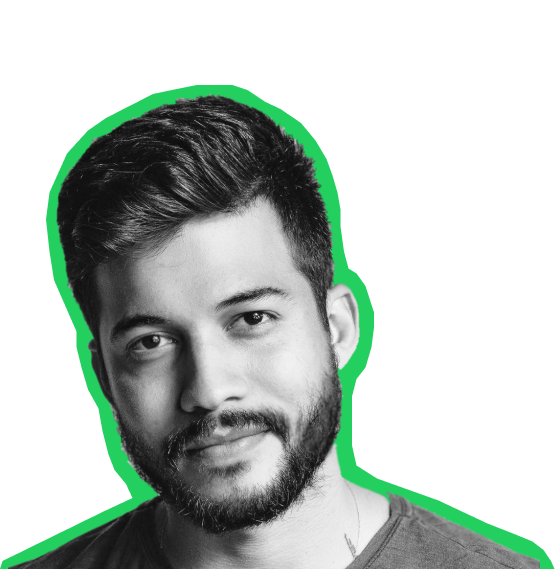
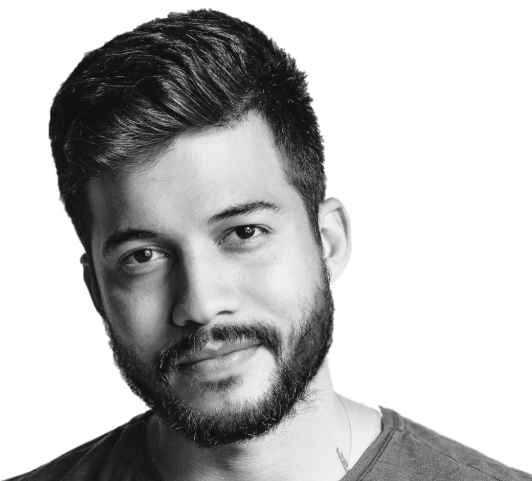
add decorations

diff --git a/components/index/hero/Hero.tsx b/components/index/hero/Hero.tsx
@@ -2,11 +2,11 @@ import Nav from "./Nav";
 
 const Hero = () => {
   const btn =
-    "capitalize font-light mt-9 text-2xl lg:text-3xl relative px-5 py-1 mx-auto flex border-2 border-black";
+    "capitalize font-light mt-9 text-2xl lg:text-3xl z-10 relative px-5 py-1 mx-auto flex  border";
   //const borderElement = 'before:h-full before:w-full before:absolute before:top-0 before:right-0 before:border before:border-black hover:after:right-0 hover:after:top-0 hover:before:right-1 hover:before:top-1 after:transition-all before:transition-all'
   //const after = 'after:w-full after:h-full after:absolute after:right-1 after:top-1 after:bg-secondary after:z-[-1]'
   const after =
-    "after:w-full after:h-full after:absolute after:left-[.35rem] after:top-[.4rem] after:bg-secondary after:z-[-1] after:opacity-0 after:transition-opacity after:duration-500 hover:after:opacity-100";
+    "after:w-full after:h-full after:absolute after:left-[.35rem] after:top-[.4rem] after:bg-secondary after:-z-10 after:opacity-0 after:transition-opacity after:duration-500 hover:after:opacity-100";
 
   return (
     <div className="min-h-screen flex flex-col">
@@ -15,6 +15,7 @@ const Hero = () => {
         <div className="max-w-[1123px] px-2 mb-[7rem]">
           <h1
             data-aos="fade-left"
+            data-aos-duration="600"
             className="uppercase font-light xl:text-[6rem] md:text-[4rem] text-[2.4rem] text-center"
           >
             <span className="font-medium">matma</span> jeszcze nigdy nie była{" "}
@@ -28,8 +29,8 @@ const Hero = () => {
           </h1>
 
           <button
-          data-aos="fade-right"
-            className={`${btn} ${after}`}
+         
+            className={`enroll__btn mt-9`}
           >
             zapisz się
           </button>

diff --git a/components/index/course/Course.tsx b/components/index/course/Course.tsx
@@ -6,9 +6,14 @@ const Course = () => {
     "giga koks like",
   ];
   return (
-    <div id="course" className="grid py-[100px] grid-cols-1 lg:grid-cols-2 justify-center lg:justify-between items-center my-12 md:mx-8 lg:mx-[5vw] mx-4">
+    <div
+      id="course"
+      className="grid py-[100px] grid-cols-1 lg:grid-cols-2 justify-center lg:justify-between items-center my-12 md:mx-8 lg:mx-[5vw] mx-4"
+    >
       <div className="m-auto">
-        <h2 className="text-[3rem] mb-10 sm:text-[4rem] md:text-[6rem] leading-[105%]">KURS <br /> 8-KLASISTY</h2>
+        <h2 className="text-[3rem] mb-10 sm:text-[4rem] md:text-[6rem] leading-[105%]">
+          KURS <br /> 8-<span className="relative after:h-[50%] after:w-[90%] after:absolute after:block after:right-0 after:top-1/2 after:-z-10 after:bg-secondary">KLASISTY</span>
+        </h2>
         <div className="text-[1.2rem] sm:text-[1.8rem] max-w-[600px] text-center">
           <p className="mb-6">
             Lorem ipsum dolor sit amet, consectetur adipiscing elit, sed do
@@ -25,7 +30,8 @@ const Course = () => {
         <ul className="flex flex-col justify-evenly h-full">
           {foo.map((e, index) => (
             <li key={index} className="flex items-center mb-12">
-              <img src="like.svg" alt="" /> <span className="text-2xl ">{e}</span>
+              <img src="like.svg" alt="" />{" "}
+              <span className="text-2xl ">{e}</span>
             </li>
           ))}
         </ul>

diff --git a/components/index/team/Team.tsx b/components/index/team/Team.tsx
@@ -44,10 +44,14 @@ const Team = () => {
         ))}
       </div>
       <div className="grid lg:grid-cols-2 grid-cols-1 h-full min-h-screen">
-        <div className="flex items-end pt-[100px] px-[5vw] lg:px-0 lg:mr-10 mb-8 lg:mb-0">
+        <div
+          data-aos="fade-right"
+          data-aos-duration="1000"
+          data-aos-delay="100"
+          className="flex items-end pt-[100px] px-[5vw] lg:px-0 lg:mr-10 mb-8 lg:mb-0"
+          data-aos-anchor-placement="top-center"
+        >
           <img
-            data-aos="fade-right"
-            data-aos-duration="1000"
             src={currentTeamItem.img}
             alt=""
             className="relative bottom-0 w-full"
@@ -55,10 +59,7 @@ const Team = () => {
         </div>
         <div className="max-w-[700px] justify-around h-full flex-1 flex flex-col m-auto px-3 pl-5 text-center lg:pr-[5vw]">
           <div></div>
-          <div
-          data-aos="fade-left"
-          data-aos-duration="1000"
-          >
+          <div data-aos="fade-left" data-aos-duration="1000">
             <h2 className="text-[3rem]">{currentTeamItem.name}</h2>
             <p className="mt-2 mb-10 text- md:text-2xl">
               {currentTeamItem.description}

diff --git a/components/index/about/About.tsx b/components/index/about/About.tsx
@@ -22,7 +22,7 @@ const About = () => {
       </div>
       <div className="m-auto">
         <h2 className="text-[3rem] mb-10  md:text-[5rem] xl:text-[6rem] leading-[105%] text-right">
-          ZAJECJA <br /> INDIWIDUALNE
+          ZAJECJA <br /> <div className="relative after:absolute after:-z-10 figure after:bg-secondary after:-left-5 after:top-0 after:h-full after:w-[105%]">INDIWIDUALNE</div>
         </h2>
         <div className="text-[1.2rem] sm:text-[1.8rem] max-w-[600px] text-center">
           <p className="mb-6">

diff --git a/components/index/testimonials/Testimonials.tsx b/components/index/testimonials/Testimonials.tsx
@@ -40,7 +40,7 @@ const Testimonials = () => {
   };
   return (
     <div className="overflow-x-hidden py-[100px]" id="testimonials">
-      <h2 className="text-[5rem] mb-10 text-center">OPINIE</h2>
+      <h2 className="text-[5rem] mb-10 text-center leading-none">O<span className="relative after:h-1/2 after:-z-10 after:w-[105%] after:absolute after:left-3 after:top-[40%] after:bg-secondary">PINIE</span></h2>
       <Slider {...settings}>
         {data.map((e, index) => (
           <div

diff --git a/styles/globals.css b/styles/globals.css
@@ -18,6 +18,10 @@ body, html{
   overflow-x: hidden;
 }
 
+.figure::after{
+  clip-path: polygon(7% 0, 100% 0, 100% 100%, 0% 100%);
+}
+
 
 
 .lazy-div {
